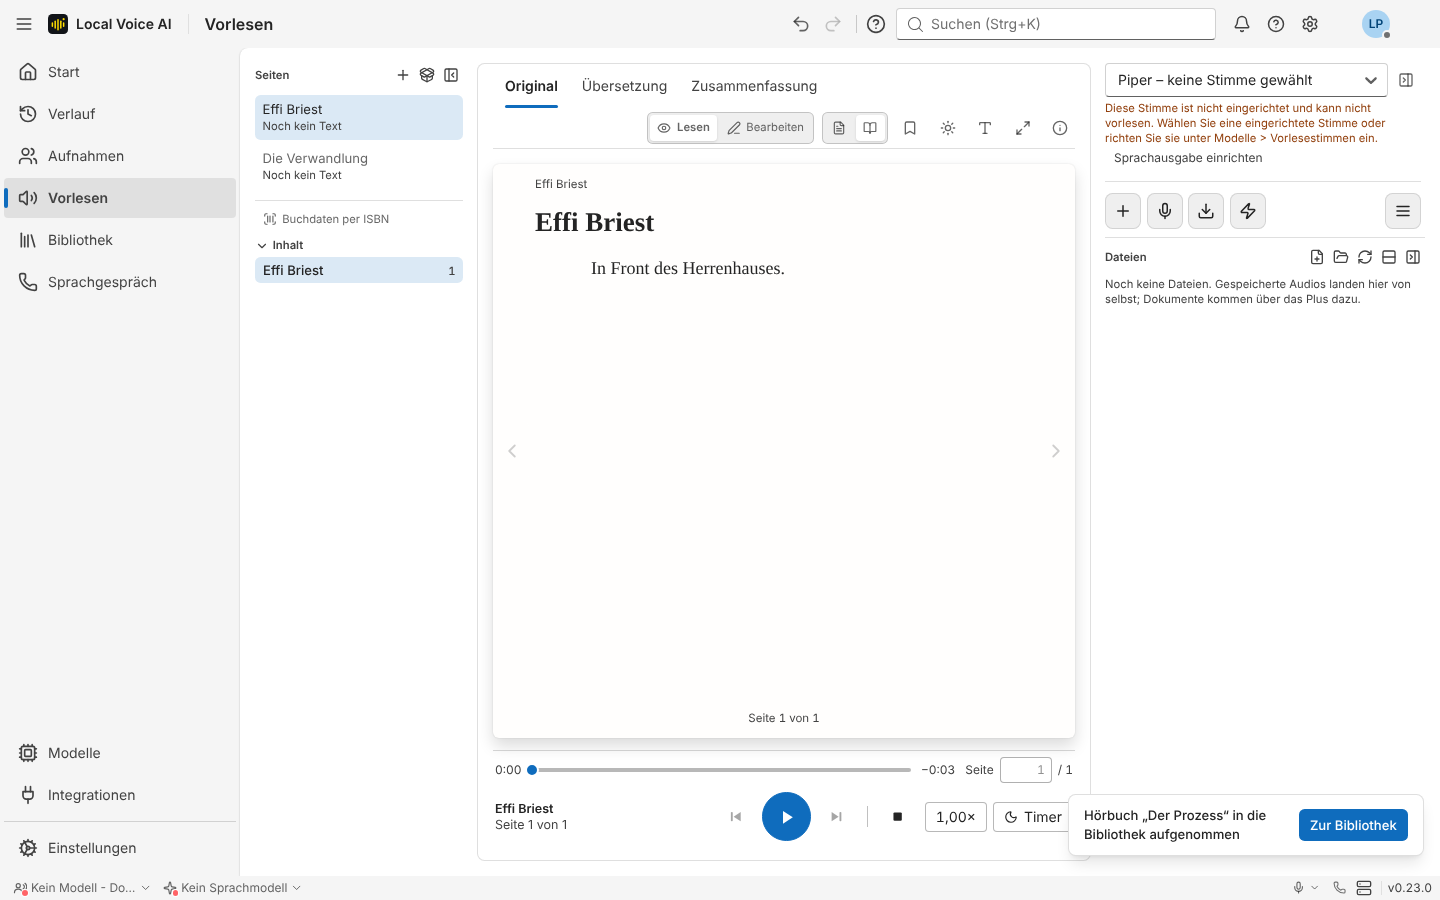
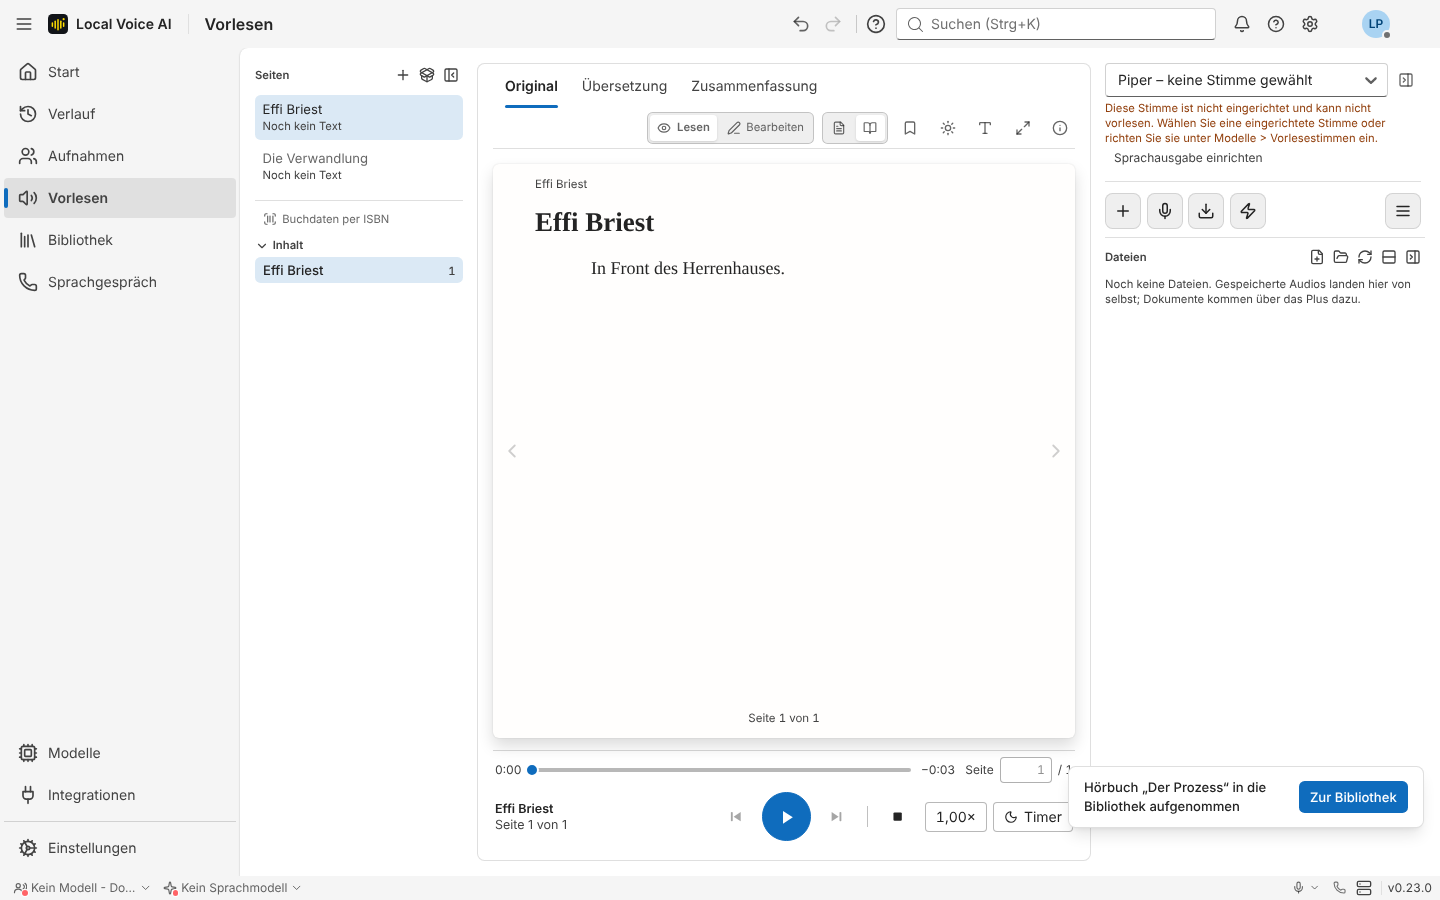
fix(bibliothek): Toast 48 px ueber der Statusleiste, Menue-Bild 390 px (lva#152)
- Toaster-Abstand unten 72 px; Test belegt Toast-Unterkante >= 44 px ueber
  der Statusleiste (gemessen 48 px).
- 390 px: Menueknopf einer Karte (44x44) geoeffnet als eigenes Bild.

Claude-Session: https://claude.ai/code/session_014pekAwPRics8juKNbG5e2a

Changed region(s): [[0.75, 0.84, 1.0, 0.9644]]

diff --git a/apps/local-voice/src/App.tsx b/apps/local-voice/src/App.tsx
@@ -444,9 +444,10 @@ function App() {
   const toaster = (
     <Toaster
       theme="system"
-      // Über der Statusleiste, nicht dahinter (Codex-Abnahme lva#200).
-      offset={{ bottom: 44, right: 16 }}
-      mobileOffset={{ bottom: 44 }}
+      // Deutlich über der Statusleiste (≈ 26 px), nicht dahinter:
+      // ≥ 44 px Luft dazwischen (Codex-Abnahme lva#200).
+      offset={{ bottom: 72, right: 16 }}
+      mobileOffset={{ bottom: 72 }}
       toastOptions={{
         unstyled: true,
         classNames: {
